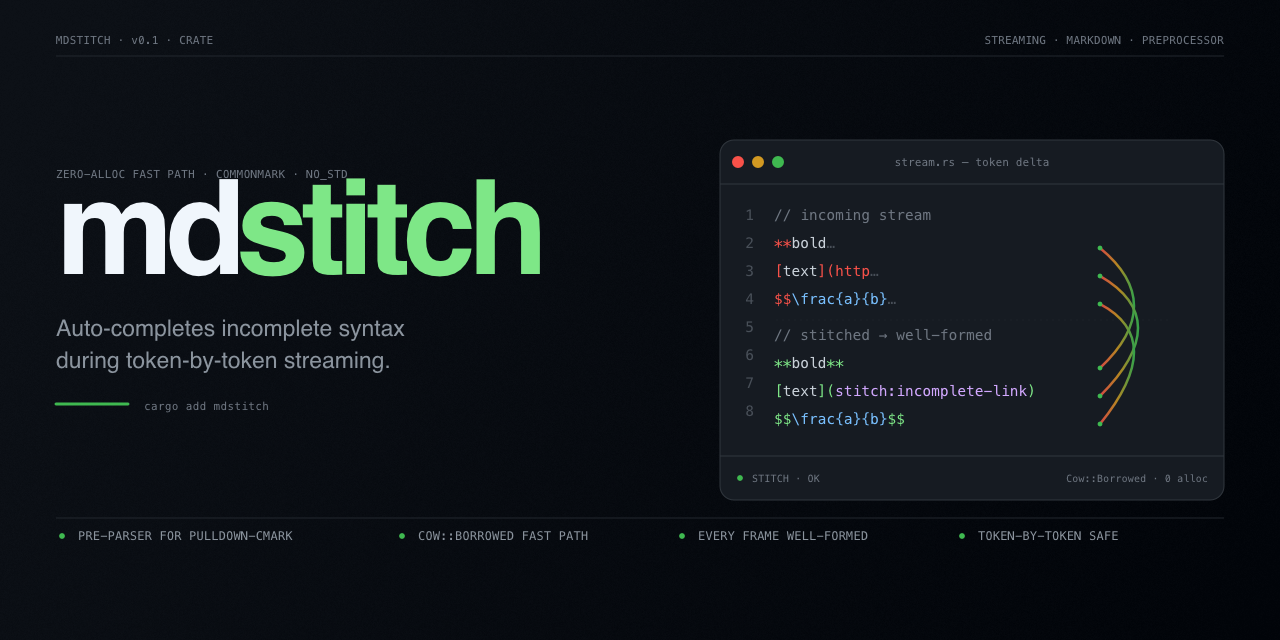
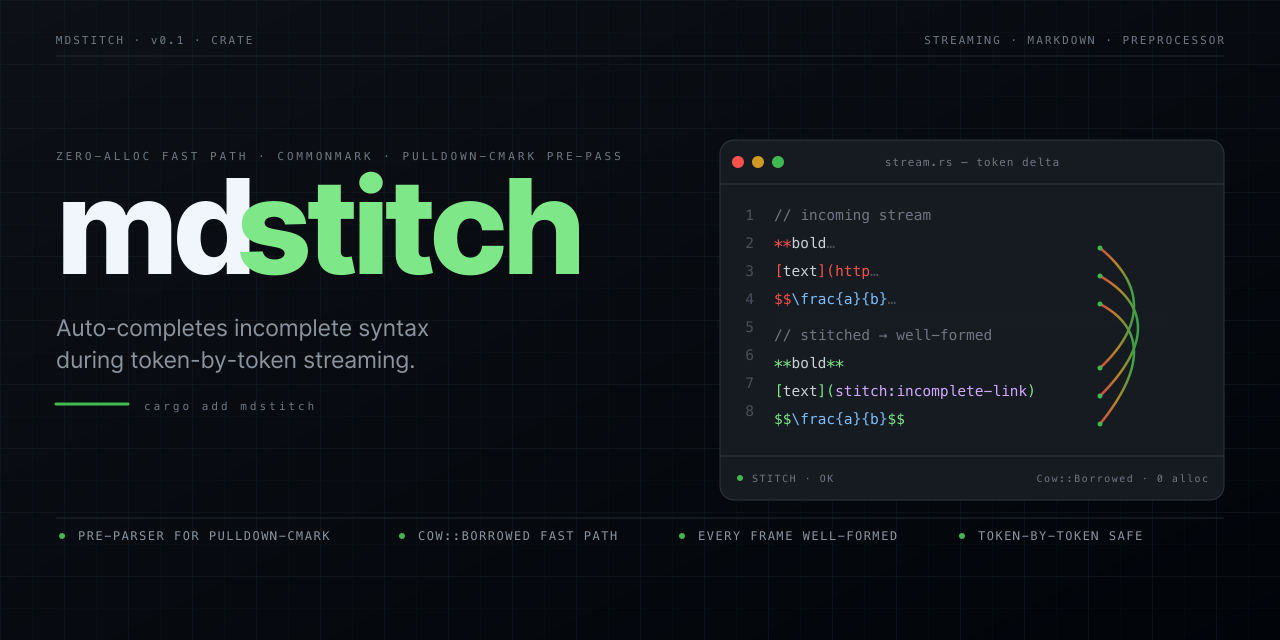
fix(mdstitch): correct hero branding and align metadata for public crate (#231)
## Summary

- Replace the hero SVG's false `NO_STD` bullet with `PULLDOWN-CMARK
PRE-PASS` (the crate uses `std` throughout) and re-rasterize the PNG.
- Drop `publish = false` and add crates.io metadata (`readme`,
`keywords`, `categories`) so `cargo add mdstitch` — already shown on the
hero — becomes a real command; update the README Status + Usage sections
to match.
- Point mdstitch's rustdoc `html_logo_url` / `html_favicon_url` at the
new `crates/mdstitch/branding/mdstitch-icon.png` instead of the
workspace tahoe-gpui logo.

## Scope

mdstitch

## Breaking changes

None.

## Test plan

- [x] `cargo fmt --check`
- [x] `cargo clippy --workspace --all-targets -- -D warnings`
- [x] `cargo nextest run -p mdstitch` (450/450 pass)
- [x] `cargo publish -p mdstitch --dry-run` (packaged 29 files, 397.8
KiB compressed)
- [x] Visually inspected regenerated `mdstitch-hero.png` at 1280x640

## HIG / issue reference

Follow-up to #229 (branding) and #227 (mdstitch rename).

diff --git a/crates/mdstitch/src/lib.rs b/crates/mdstitch/src/lib.rs
@@ -1,6 +1,6 @@
 #![doc(
-    html_logo_url = "https://raw.githubusercontent.com/df49b9cd/tahoe-gpui/main/branding/tahoe-gpui-logo.png",
-    html_favicon_url = "https://raw.githubusercontent.com/df49b9cd/tahoe-gpui/main/branding/tahoe-gpui-logo.png"
+    html_logo_url = "https://raw.githubusercontent.com/df49b9cd/tahoe-gpui/main/crates/mdstitch/branding/mdstitch-icon.png",
+    html_favicon_url = "https://raw.githubusercontent.com/df49b9cd/tahoe-gpui/main/crates/mdstitch/branding/mdstitch-icon.png"
 )]
 //! Streaming markdown preprocessor that auto-completes incomplete syntax.
 //!

diff --git a/crates/mdstitch/README.md b/crates/mdstitch/README.md
@@ -24,14 +24,14 @@ without incurring a copy when the text is already closed.
 
 ## Status
 
-Workspace-private (`publish = false`). Consumed by
-[`tahoe-gpui`](../tahoe-gpui) for streaming Markdown rendering.
+Published on crates.io. Consumed by [`tahoe-gpui`](../tahoe-gpui) for
+streaming Markdown rendering.
 
 ## Usage
 
 ```toml
 [dependencies]
-mdstitch = { path = "../mdstitch" }
+mdstitch = "0.1"
 ```
 
 ```rust
